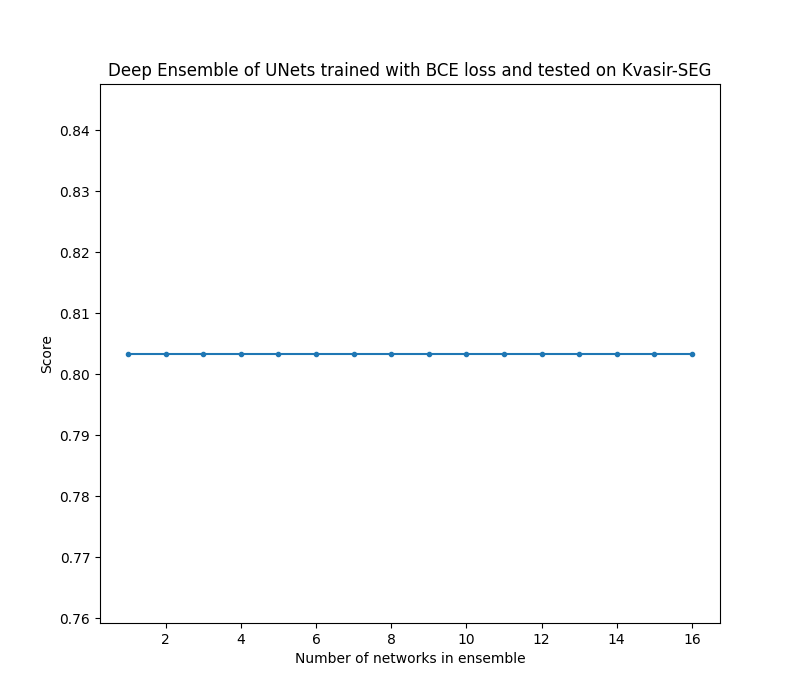
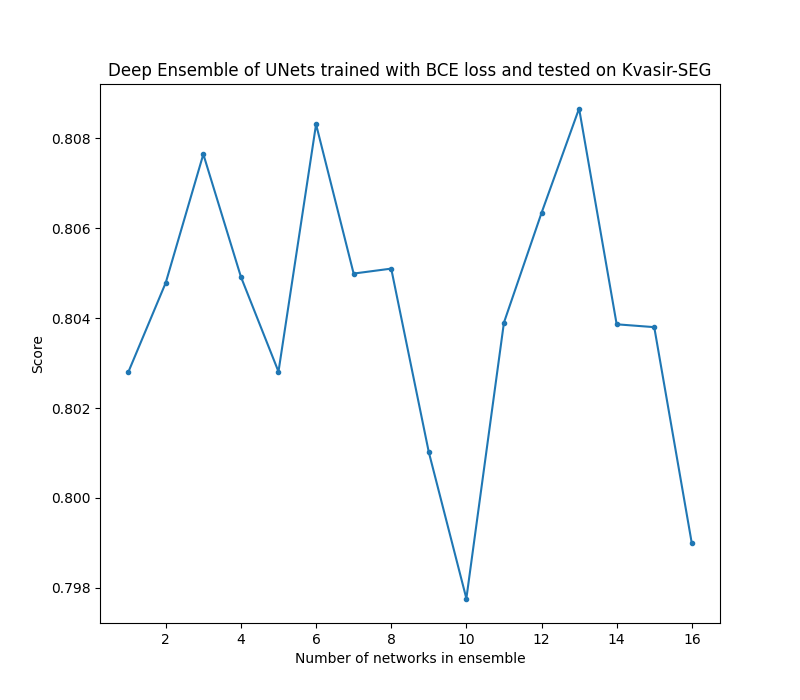
make dice loss suitable for batches

diff --git a/src/deep_ensemble.py b/src/deep_ensemble.py
@@ -97,12 +97,11 @@ class ValidateTrainTestEnsemble:
 
     def plot_dice_vs_ensemble_size(self, save_plot_folder, title):
         dice_list = []
-        for i in range(self.ensemble_size):
-            print(f" Ensemble size: {i+1} ".center(50, "-"))
-            running_dice, running_NLL = 0, 0
-            ensemble_model = DeepEnsemble(self.model, i + 1, self.device, self.load_folder)
-            self.model.eval()
-            with torch.no_grad():
+        with torch.no_grad():
+            for i in range(self.ensemble_size):
+                print(f" Ensemble size: {i+1} ".center(50, "-"))
+                running_dice, running_NLL = 0, 0
+                ensemble_model = DeepEnsemble(self.model, i + 1, self.device, self.load_folder)
                 for batch, (x, y) in enumerate(self.loader):
                     y = y.to(device=self.device).unsqueeze(1)
                     x = x.to(device=self.device)
@@ -111,9 +110,11 @@ class ValidateTrainTestEnsemble:
                     dice = dice_coef(pred, y)
                     print(dice, end=", ")
                     running_dice += dice
-            average_dice = running_dice / len(self.loader)
-            print("average dice:", average_dice)
-            dice_list.append(average_dice)
+
+                average_dice = running_dice / len(self.loader)
+                print("average dice:", average_dice)
+                dice_list.append(average_dice)
+                print(dice_list)
 
         plt.figure(figsize=(8, 7))
         plt.plot(range(1, self.ensemble_size + 1), dice_list, ".-")
@@ -122,28 +123,6 @@ class ValidateTrainTestEnsemble:
         plt.ylabel("Score")
         plt.title(title)
         plt.savefig(save_plot_folder + "ensembles_vs_score.png")
-
-
-def load_and_test(loader, device):
-    model = UNet(in_channels=3, out_channels=1)
-    model.to(device=device)
-    save_folder = "/home/feliciaj/PolypSegmentation/results/results_kvasir/examples1/"
-    checkpoint = torch.load("/home/feliciaj/PolypSegmentation/saved_models/unet_BCE/unet_0.pt")
-    model.load_state_dict(checkpoint["state_dict"])
-    model.eval()
-    for batch, (x, y) in enumerate(loader):
-        with torch.no_grad():
-            y = y.to(device).unsqueeze(1)
-            x = x.to(device)
-            prob = model(x)
-            pred = torch.sigmoid(prob)
-            pred = (pred > 0.5).float()
-            dice = dice_coef(pred, y)
-            print(f"For image no. {batch}, dice={dice}")
-
-        torchvision.utils.save_image(pred, f"{save_folder}/pred_{batch}.png")
-        torchvision.utils.save_image(y, f"{save_folder}/mask_{batch}.png")
-
 
 
 if __name__ == "__main__":
@@ -191,13 +170,11 @@ if __name__ == "__main__":
     model = UNet(in_channels=3, out_channels=1).to(device) #ResUnetPlusPlus(in_channels=3, out_channels=1)  
     ensemble_size = 16
 
-    #load_and_test(test_loader, device)
-
     obj = ValidateTrainTestEnsemble(model, ensemble_size, device, test_loader, load_folder)
 
-    #get_class_weights(test_loader)
-
-    obj.test_ensembles(save_folder)
+    #obj.test_ensembles(save_folder)
 
     obj.plot_dice_vs_ensemble_size(save_plot_folder, title)
+    
+
     

diff --git a/src/utils/metrics.py b/src/utils/metrics.py
@@ -24,43 +24,24 @@ class BCEDiceLoss(nn.Module):
         bce_loss = nn.BCEWithLogitsLoss()(pred, truth).double() 
 
         # Dice Loss
-        dice_coef = dice_coef = dice_coef(pred, truth).double()
+        dice = dice_coef(pred, truth)
 
-        return bce_loss + (1 - dice_coef)
+        return bce_loss + (1 - dice)
 
 
 class DiceLoss(nn.Module):
-    def __init__(self, weight=None):
+    def __init__(self):
         super().__init__()
 
-    def forward(self, input, target):
-        pred = torch.sigmoid(input).view(-1)
-        truth = target.view(-1)
+    def forward(self, input, target, eps=1e-8):
+        pred = torch.sigmoid(input)
 
-        dice_coef = dice_coef(pred, truth).double()
+        intersection = (pred*target).flatten(1).sum(1)
+        total = pred.flatten(1).sum(1) + target.flatten(1).sum(1)
 
-        return 1 - dice_coef
+        dice = (2.0 * intersection + eps) / (total + intersection + eps)
 
-
-"""
-class DiceLoss(nn.Module):
-    def __init__(self, weight=None):
-        super().__init__()
-    
-    def forward(self, input, target):
-        assert input.shape[0] == target.shape[0], "Prediction and GT batch size do not match"
-        pred = torch.sigmoid(input).view(-1) # view(-1) flattens tensor
-        truth = target.view(-1)
-        
-        return (1 - dice_coef(pred, truth))
-
-def dice_coef(pred, target):
-
-    intersection = (pred*target).sum()
-    total = pred.sum() + target.sum()
-
-    return (2.0 * intersection + 1) / (total + intersection + 1)
-"""
+        return 1 - torch.mean(dice, dim=0)
 
 
 def dice_coef(preds, labels, per_image=False):
@@ -75,8 +56,10 @@ def dice_coef(preds, labels, per_image=False):
         1D tensor
     """
     smooth = 0.0001
+    
     if not per_image:
         preds, labels = (preds,), (labels,)
+      
     dices = []
     for pred, label in zip(preds, labels):
         intersection = ((label == 1) & (pred == 1)).sum() # true positive

diff --git a/src/trainer.py b/src/trainer.py
@@ -153,7 +153,6 @@ def run_model(number):
     config = dict()
     config["lr"] = 1e-4
     config["device"] = torch.device("cuda" if torch.cuda.is_available() else "cpu")
-    config["load_model"] = False
     config["plot_loss"] = False
     config["num_epochs"] = 150
     config["in_channels"] = 3
@@ -163,11 +162,10 @@ def run_model(number):
     config["num_workers"] = 4
     config["image_height"] = 256
     config["image_width"] = 256
-    config["model_name"] = "unet"
+    config["model_name"] = "resunet++"
     config["save_folder"] = (
         "/home/feliciaj/PolypSegmentation/saved_models/"
-        + config["model_name"]
-        + "_BCE/"
+        + config["model_name"] #+ "_BCE/"
     )
 
     if config["model_name"] == "unet":
@@ -198,9 +196,9 @@ def run_model(number):
 
     val_transforms = standard_transforms(config["image_height"], config["image_width"])
 
-    criterion = nn.BCEWithLogitsLoss()  #  Sigmoid layer and the BCELoss
+    #criterion = nn.BCEWithLogitsLoss()  #  Sigmoid layer and the BCELoss
     # criterion = BCEDiceLoss() # Sigmoid layer and Dice + BCE loss
-    # criterion = DiceLoss()  # Sigmoid layer and Dice loss
+    criterion = DiceLoss()  # Sigmoid layer and Dice loss
 
     optimizer = optim.Adam(model.parameters(), lr=config["lr"])
 

diff --git a/src/utils/utils.py b/src/utils/utils.py
@@ -161,7 +161,7 @@ def save_grid(ims, folder, rows=None, cols=None):
     #fig.subplots_adjust(wspace=0, hspace=0)
 
     for ax,im in zip(axarr.ravel(), ims):
-        img = ax.imshow(im, cmap="jet", vmin=im.min(), vmax=im.max())
+        img = ax.imshow(im, cmap="turbo", vmin=im.min(), vmax=im.max())
         ax.set_axis_off()
         ax.set_aspect("equal") 
         fig.subplots_adjust(right=0.8)
